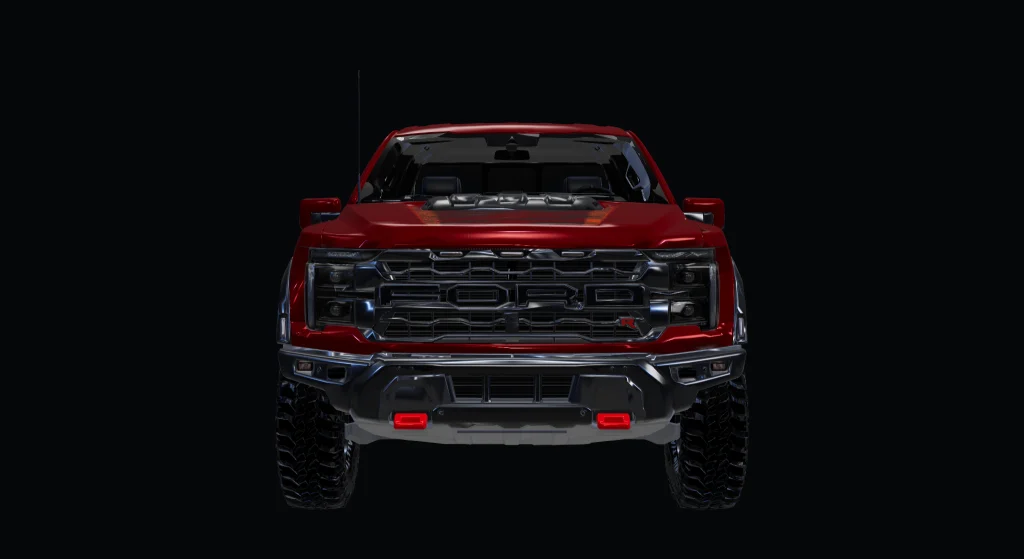
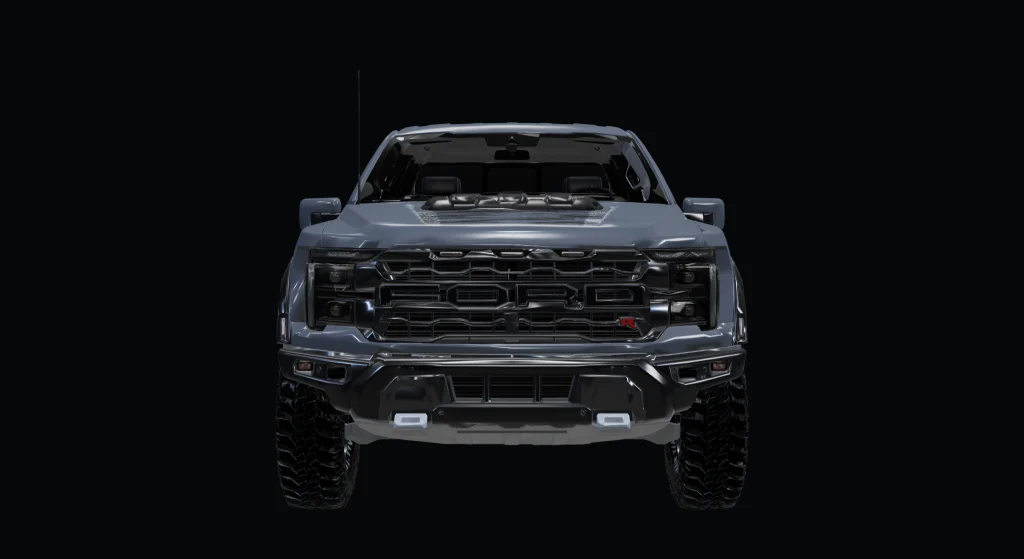
feat: enhance HeroReveal component with brightness and identification tag features.

Changed region(s): [[0.2812, 0.2129, 0.7188, 0.6386], [0.5625, 0.7299, 0.625, 0.7907], [0.375, 0.7299, 0.4375, 0.7907]]

diff --git a/src/app/landing/hero-reveal/hero-reveal.component.css b/src/app/landing/hero-reveal/hero-reveal.component.css
@@ -10,7 +10,7 @@
   background: var(--reveal-bg, #06070a);
   color: #fff;
   /* estado inicial (antes do primeiro cálculo de scroll) */
-  --hint: 1; --outline: .18; --sil: 0; --rev: 0; --drl: 0; --bloom: 0; --head: 0;
+  --hint: 1; --outline: .1; --bright: .1; --tag: 0; --sil: 0; --rev: 0; --drl: 0; --bloom: 0; --head: 0;
   --scan: 0; --scan-o: 0; --recede: 0; --t1: 0; --t2: 0; --t3: 0; --t4: 0;
 }
 
@@ -21,18 +21,24 @@
   height: calc(100svh - var(--reveal-top, 0px));
   overflow: hidden;
   display: grid;
+  grid-template-columns: minmax(0, 1fr);
   place-items: center;
 }
 
 /* Todas as camadas dividem o mesmo quadro (mesma proporção da imagem) */
 .frame {
+  /* Centralizado mesmo quando o quadro é mais largo que a tela (celular) */
   position: relative;
+  justify-self: start;
+  left: 50%;
+  translate: -50% 0;
   width: min(94vw, calc((100svh - var(--reveal-top, 0px)) * 1.75), 1500px);
   aspect-ratio: 2048 / 1117;
   /* Mesmo fundo da cena: as luzes (imagens pretas, plus-lighter) não escurecem as bordas da base */
   background: var(--reveal-bg, #06070a);
-  transform: translateY(calc(var(--recede) * -9%)) scale(calc(1 - var(--recede) * .16));
-  transform-origin: 50% 45%;
+  /* No fim o carro sobe e encolhe para o texto ficar ABAIXO dele, sem cobrir */
+  transform: translateY(calc(var(--recede) * var(--ry, -11%))) scale(calc(1 - var(--recede) * var(--rs, .3)));
+  transform-origin: 50% 0;
   will-change: transform;
 }
 .layer { position: absolute; inset: 0; width: 100%; height: 100%; display: block; user-select: none; pointer-events: none; }
@@ -42,6 +48,7 @@
 
 /* A escuridão recua a partir da grade: a base só aparece dentro de um círculo que cresce */
 .base {
+  filter: brightness(var(--bright));
   --r: calc(var(--rev) * 118% - 18%);
   /* Círculo que cresce a partir da grade + bordas suavizadas (o fundo da imagem nunca "emoldura") */
   -webkit-mask-image:
@@ -106,15 +113,22 @@
 .hint i { width: 10px; height: 10px; border-right: 2px solid #8FB8E2; border-bottom: 2px solid #8FB8E2; transform: rotate(45deg); animation: hint-bob 1.6s ease-in-out infinite; }
 @keyframes hint-bob { 0%, 100% { transform: translateY(0) rotate(45deg); } 50% { transform: translateY(5px) rotate(45deg); } }
 
-/* Conteúdo projetado: fica em cima do carro, com um degradê para garantir a leitura */
+/* Conteúdo projetado: fica embaixo do carro (o carro sobe e encolhe para dar lugar) */
 .content {
   position: absolute; left: 0; right: 0; bottom: 0; z-index: 2;
-  padding: clamp(80px, 16vh, 150px) 24px clamp(24px, 6vh, 56px);
+  padding: 48px 24px clamp(20px, 5vh, 48px);
   text-align: center; pointer-events: none;
-  background: linear-gradient(to top, rgba(6, 7, 10, .94) 0%, rgba(6, 7, 10, .78) 50%, transparent 100%);
+  background: linear-gradient(to top, rgba(6, 7, 10, .92) 0%, rgba(6, 7, 10, .6) 60%, transparent 100%);
   opacity: var(--t1);
 }
 :host(.has-text) .content { pointer-events: auto; }
+
+/* Selo de identificação (fim do scanner) */
+.tag {
+  position: absolute; top: 10px; left: 0; right: 0; margin: 0; text-align: center; pointer-events: none;
+  font-size: 10.5px; font-weight: 600; letter-spacing: .24em; text-transform: uppercase; color: #8FB8E2;
+  opacity: var(--tag);
+}
 
 /* Entrada em 4 passos (ordem = data-reveal-step) */
 :host ::ng-deep [data-reveal-step] { will-change: opacity, transform; }
@@ -133,6 +147,6 @@
 }
 
 @media (max-width: 700px) {
-  .frame { width: 150vw; max-width: none; }
+  .frame { width: 180vw; max-width: none; --ry: -37%; --rs: .12; }
   .content { padding-left: 16px; padding-right: 16px; }
 }

diff --git a/src/app/landing/hero-reveal/hero-reveal.component.spec.ts b/src/app/landing/hero-reveal/hero-reveal.component.spec.ts
@@ -22,12 +22,13 @@ describe('revealPhases', () => {
     expect(s.head).toBe(0);
     expect(s.t).toEqual([0, 0, 0, 0]);
     expect(s.outline).toBeGreaterThan(0);
-    expect(s.outline).toBeLessThan(0.3);
+    expect(s.outline).toBeLessThan(0.2);
+    expect(s.bright).toBeLessThan(0.2);
   });
 
   it('segue a ordem do roteiro: silhueta, revelação, DRLs, faróis, scanner, texto', () => {
     const at = (p: number) => revealPhases(p * HOLD_START);
-    expect(at(0.3).outline).toBeGreaterThan(0.9);
+    expect(at(0.3).outline).toBeGreaterThan(0.5);
     expect(at(0.4).rev).toBeGreaterThan(0);
     expect(at(0.4).drl).toBe(0);
     expect(at(0.52).rev).toBeCloseTo(1, 1);
@@ -42,6 +43,8 @@ describe('revealPhases', () => {
   it('no fim tudo está aceso e o texto inteiro visível; o estado final é segurado', () => {
     const end = revealPhases(HOLD_START);
     expect(end.rev).toBe(1);
+    expect(end.bright).toBe(1);
+    expect(end.tag).toBe(1);
     expect(end.drl).toBe(1);
     expect(end.head).toBe(1);
     expect(end.recede).toBe(1);
@@ -53,7 +56,7 @@ describe('revealPhases', () => {
   it('valores ficam sempre entre 0 e 1', () => {
     for (let p = -0.2; p <= 1.2; p += 0.05) {
       const s = revealPhases(p);
-      for (const v of [s.hint, s.outline, s.sil, s.rev, s.drl, s.bloom, s.head, s.scan, s.scanO, s.recede, ...s.t]) {
+      for (const v of [s.hint, s.outline, s.sil, s.rev, s.bright, s.tag, s.drl, s.bloom, s.head, s.scan, s.scanO, s.recede, ...s.t]) {
         expect(v).toBeGreaterThanOrEqual(0);
         expect(v).toBeLessThanOrEqual(1);
       }

diff --git a/src/app/landing/hero-reveal/hero-reveal.phases.ts b/src/app/landing/hero-reveal/hero-reveal.phases.ts
@@ -23,6 +23,10 @@ export interface RevealPhases {
   sil: number;
   /** Raio da máscara que revela a carroceria a partir da grade */
   rev: number;
+  /** Brilho da carroceria: começa quase apagada e vai acendendo */
+  bright: number;
+  /** Selo "identificado" (fim do scanner) */
+  tag: number;
   /** DRLs (curva de LED) e bloom */
   drl: number;
   bloom: number;
@@ -43,7 +47,7 @@ export function revealPhases(progress: number): RevealPhases {
   const outlineIn = range(s, 0.1, 0.3);
   // O contorno some conforme a carroceria surge (fica só um resto discreto).
   const outlineOut = range(s, 0.45, 0.6);
-  const outline = (0.18 + 0.82 * outlineIn) * (1 - 0.9 * outlineOut) * (1 - range(s, 0.9, 1));
+  const outline = (0.1 + 0.5 * outlineIn) * (1 - 0.9 * outlineOut) * (1 - range(s, 0.9, 1));
 
   const scanT = clamp01((s - 0.9) / 0.08);
 
@@ -53,7 +57,9 @@ export function revealPhases(progress: number): RevealPhases {
     hint: 1 - range(s, 0, 0.06),
     outline,
     sil: outlineIn * 0.1 * (1 - range(s, 0.4, 0.55)),
-    rev: range(s, 0.28, 0.52),
+    rev: range(s, 0.22, 0.5),
+    bright: 0.1 + 0.9 * range(s, 0.12, 0.55),
+    tag: range(s, 0.97, 1),
     drl: range(s, 0.55, 0.7),
     bloom: range(s, 0.58, 0.72),
     head: range(s, 0.8, 0.9),

diff --git a/src/app/landing/hero-reveal/hero-reveal.component.html b/src/app/landing/hero-reveal/hero-reveal.component.html
@@ -30,6 +30,8 @@
   <div class="fog fog--l" aria-hidden="true"></div>
   <div class="fog fog--r" aria-hidden="true"></div>
 
+  <p class="tag" aria-hidden="true">Ford F-150 Raptor R · Identificado</p>
+
   <p class="hint" aria-hidden="true"><span>Role para iniciar</span><i></i></p>
 
   <div class="content">

diff --git a/src/app/landing/hero-reveal/hero-reveal.component.ts b/src/app/landing/hero-reveal/hero-reveal.component.ts
@@ -89,6 +89,8 @@ export class HeroRevealComponent implements AfterViewInit {
     set('--outline', s.outline);
     set('--sil', s.sil);
     set('--rev', s.rev);
+    set('--bright', s.bright);
+    set('--tag', s.tag);
     set('--drl', s.drl);
     set('--bloom', s.bloom);
     set('--head', s.head);
